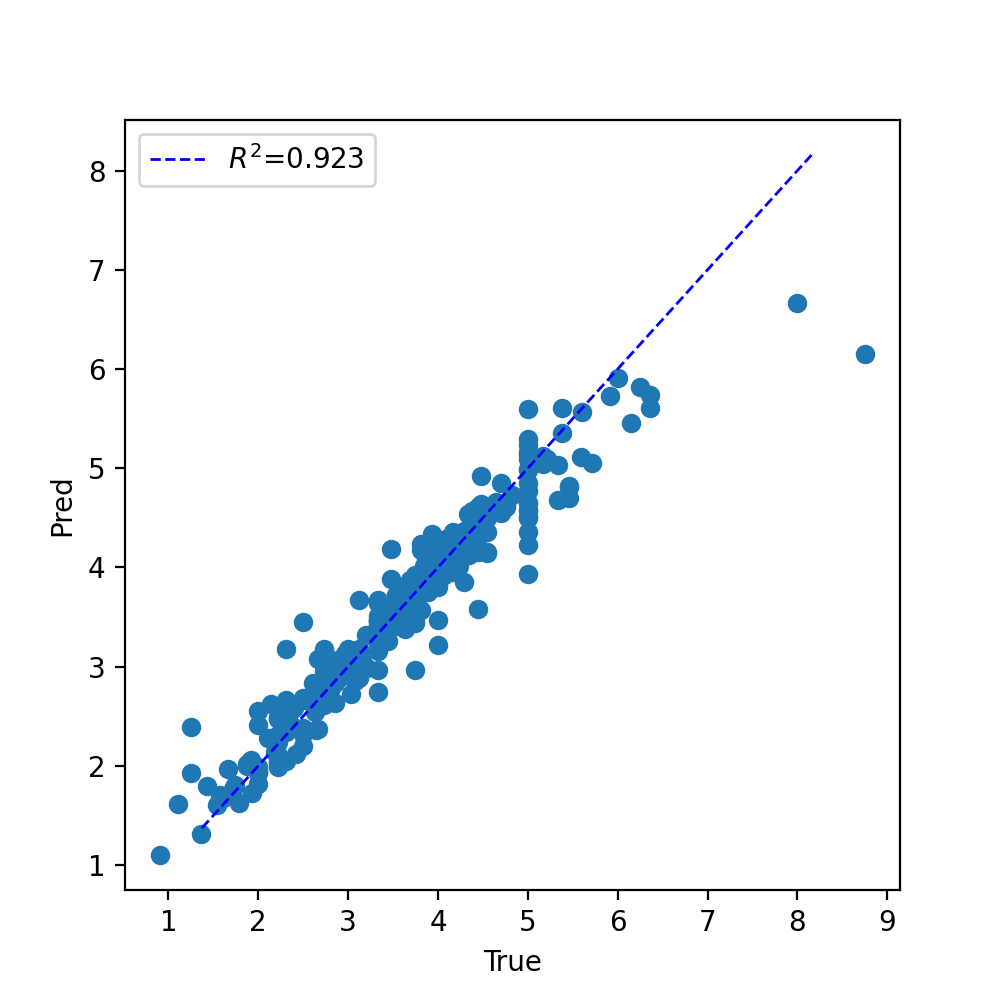
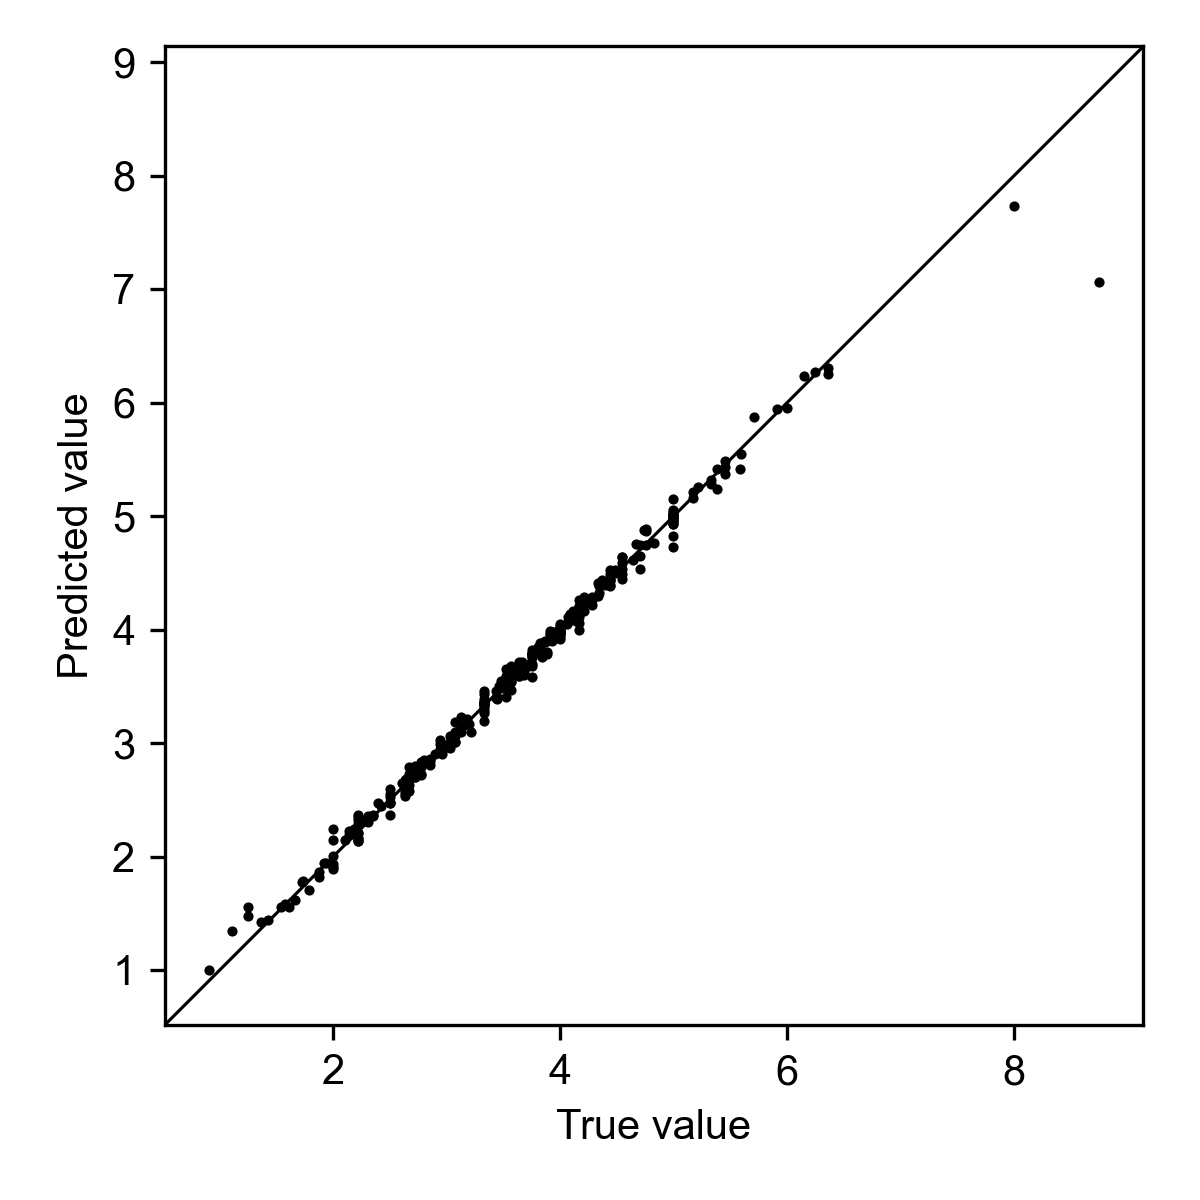
Regenerate the cross-validation tutorial's figures, and put them in the right order
The tutorial's ten networks were retrained (seeded, on the CPU) and their test
predictions replotted in the new figure style. The per-fold figure now comes
where the text describes evaluating each fold (the two images were swapped), and
the R^2 values are given in the text rather than inside the plots.

diff --git a/docs/usage/cross_validation.rst b/docs/usage/cross_validation.rst
@@ -54,17 +54,17 @@ All of this could also be accomplished using a wrapper shell script. In fact, fo
     
 **Analyze CV predictions**
 
-After running all of this, you should have 10 files with test set predictions: "network[0-9]_predictions.tsv". First, we will evaluate (using Pearson's R square)each set of predictions separately and see how the networks perform on average and how much variance there is between different networks. In published work that uses cross-validation, it's typical to report this average performance (by some metric) across CV folds and the variance between folds.
+After running all of this, you should have 10 files with test set predictions: "network[0-9]_predictions.tsv". First, we will evaluate each set of predictions separately (here by the square of Pearson's R between true and predicted values) and see how the networks perform on average and how much variance there is between different networks. In published work that uses cross-validation, it's typical to report this average performance (by some metric) across CV folds and the variance between folds.
+
+.. image:: ../images/separate_CV_test_scatter.png
+  :width: 600
+
+In our run, R\ :sup:`2` ranged from 0.968 to 0.998 across the ten folds (mean 0.993, standard deviation 0.009). Since all of these networks perform well, and there is low variance between them, we can also combine each of these prediction files and see how the cumulative predictions fare:
 
 .. image:: ../images/combined_CV_test_scatter.png
   :width: 400
 
-Since all of these networks perform well, and there is low variance between predictions, we can also combine each of these prediction files and see how the cumulative predictions fare:
-
-.. image:: ../images/separate_CV_test_scatter.png
-  :width: 400
-
-There's a couple of outlier sequences, but overall it looks like our networks did great!
+Together, the predictions have R\ :sup:`2` = 0.989. There is one clear outlier, the sequence with the largest value in the dataset (VWIMYFIA, 8.75), which is predicted to be about 7.1: no other training sequence has a value that high. Otherwise our networks did great!
 
 **Train final network**
 
